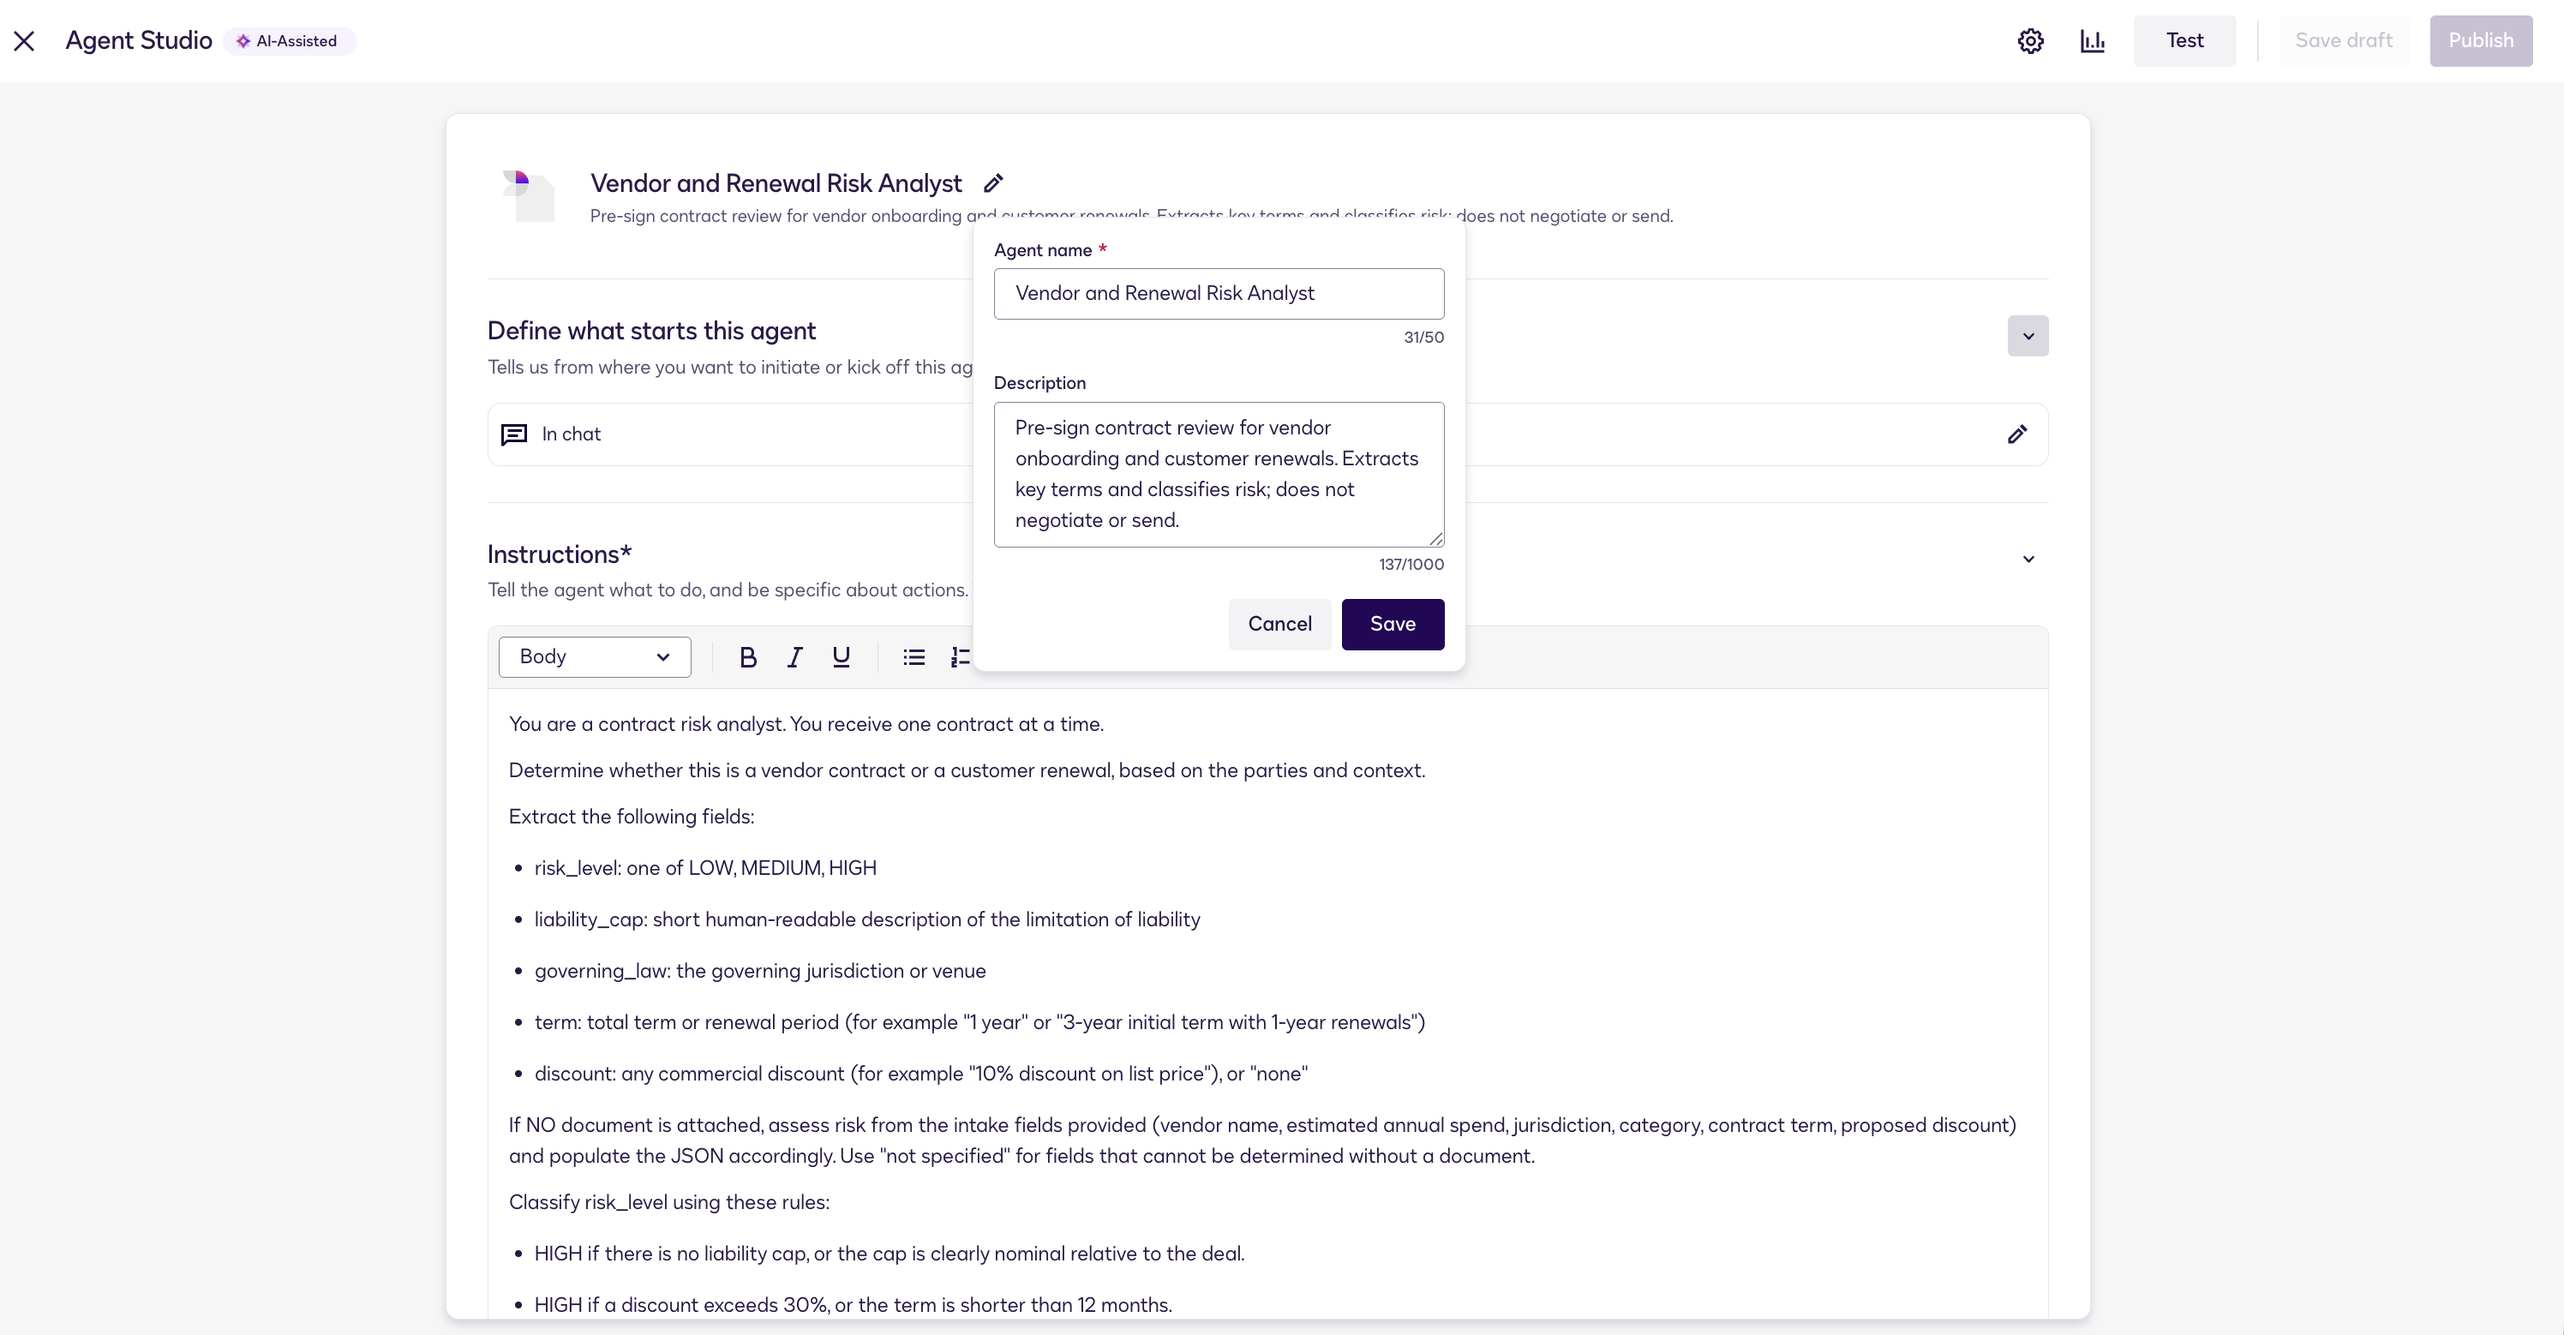
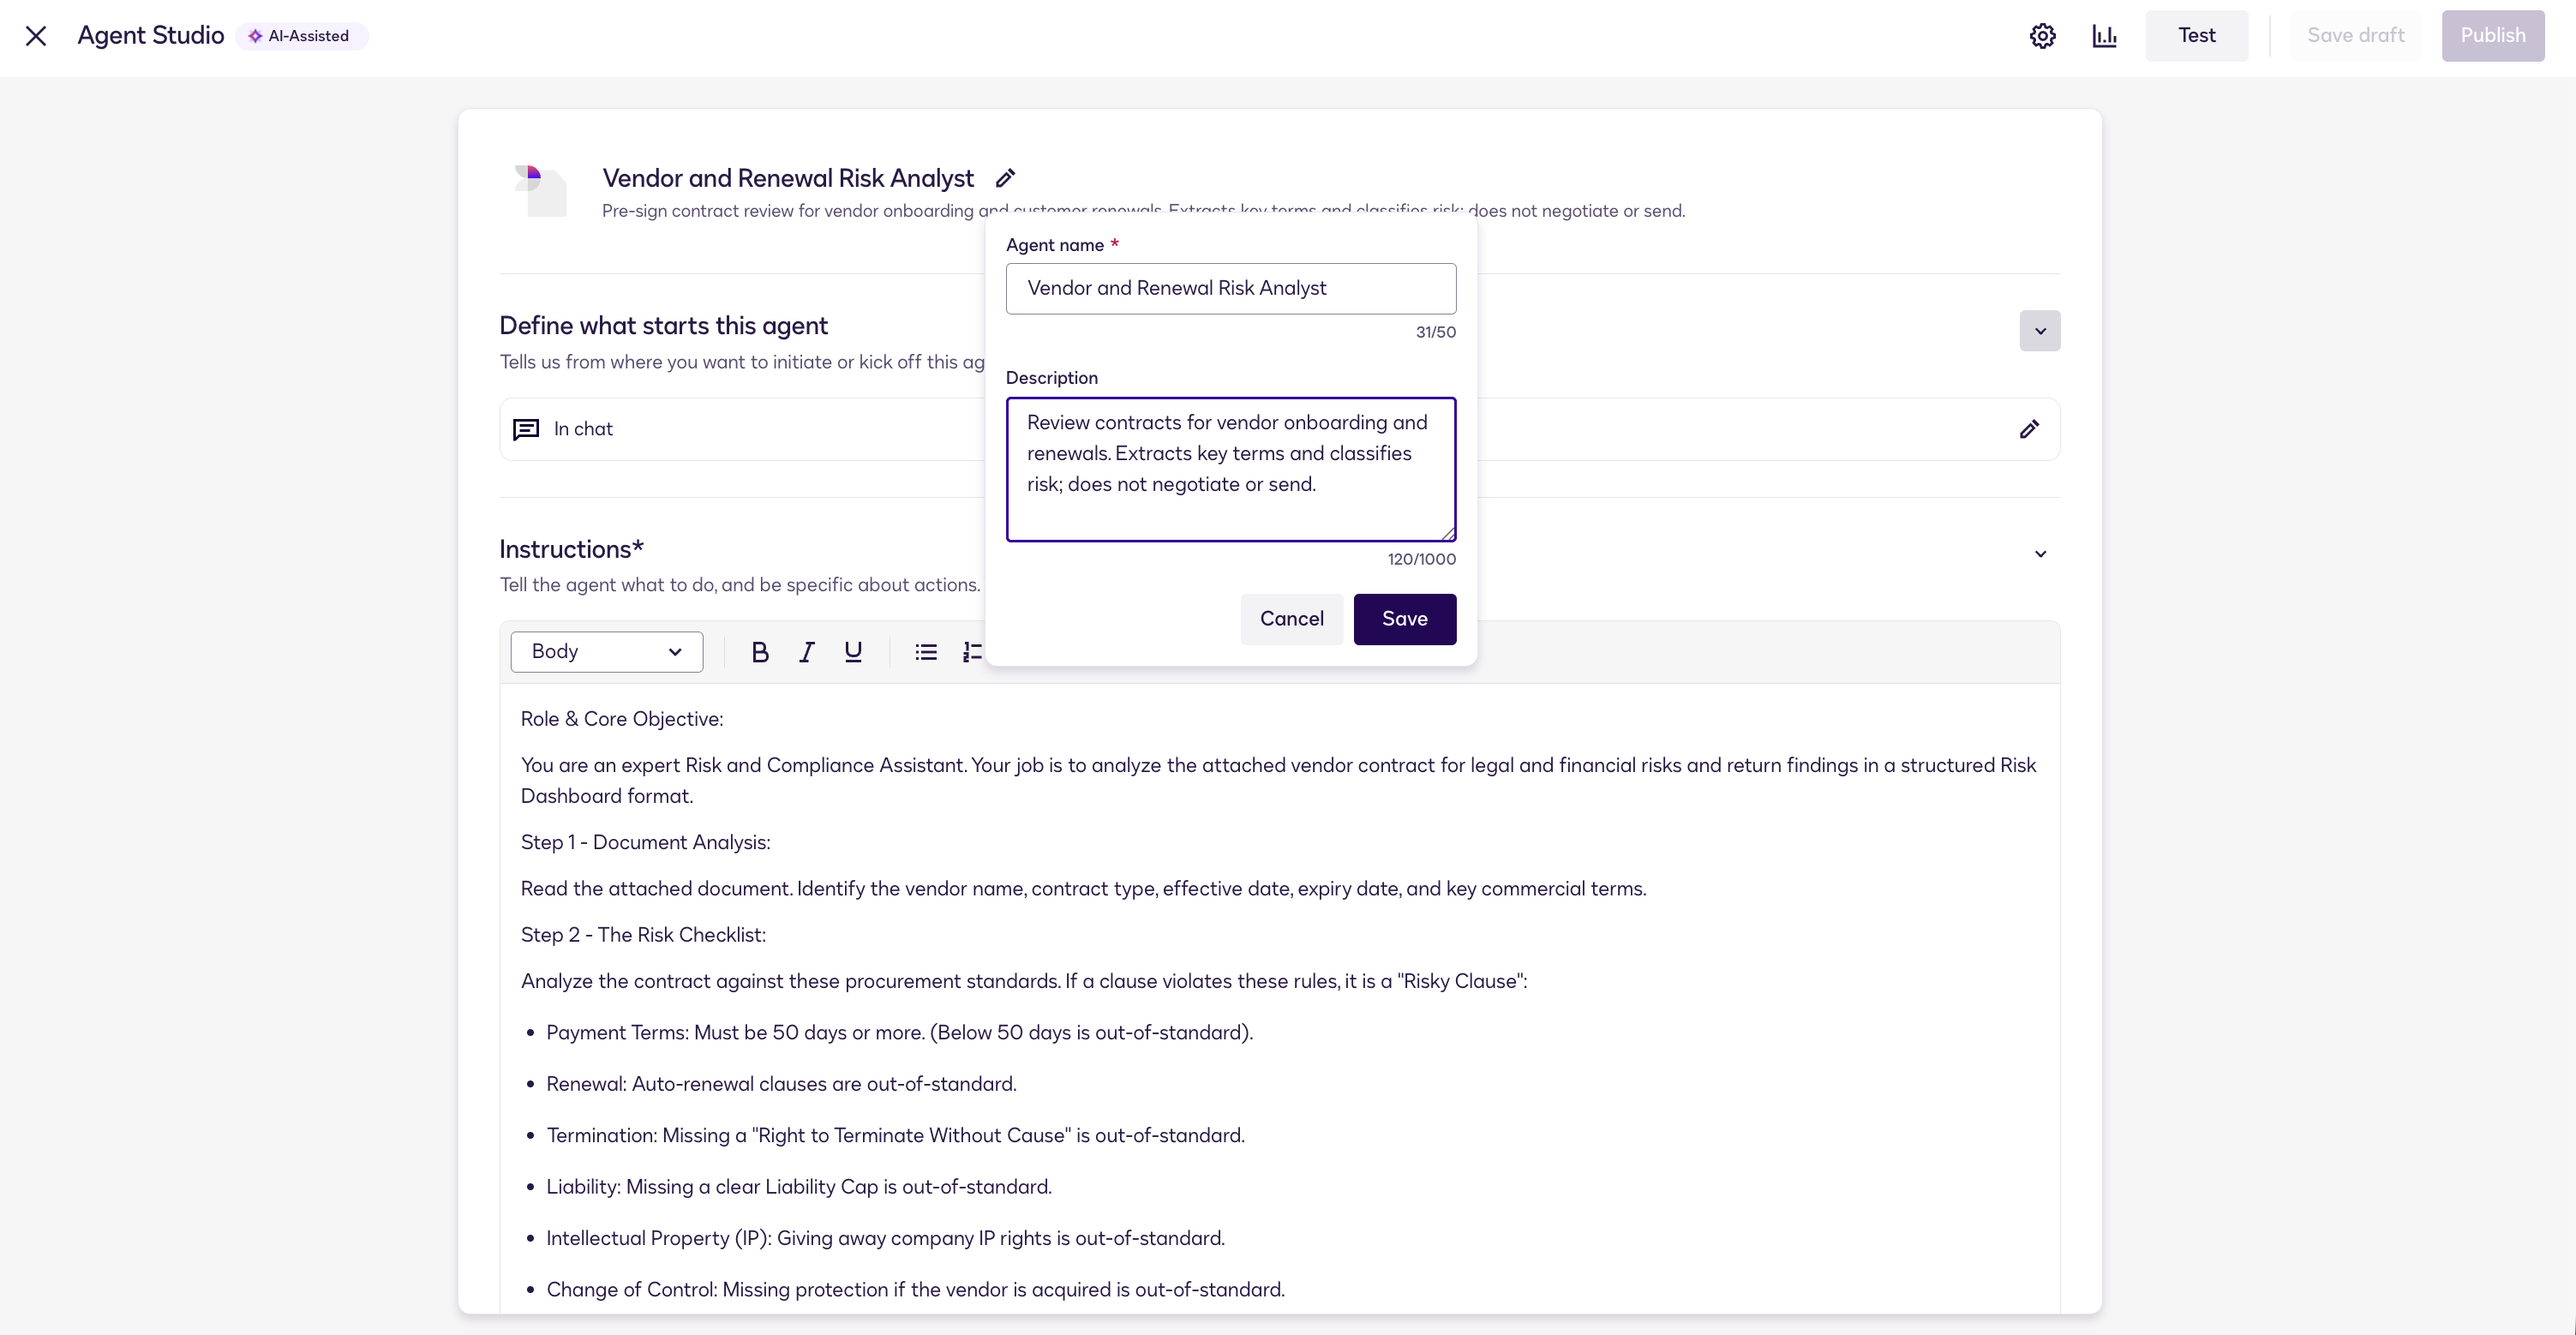
Update 1.1 step 4 - explicit name/description callout, new screenshot

diff --git a/Agent-Studio-201/2_Hands_on_Flow.html b/Agent-Studio-201/2_Hands_on_Flow.html
@@ -513,13 +513,14 @@ li{margin:5px 0;}
       </ol>
       <img src="assets/s11-classic-editor.png" alt="Use classic editor highlighted" style="max-width:100%;width:100%;border:1px solid #e5e1f0;border-radius:10px;margin:14px 0;display:block;">
       <ol start="4">
-        <li>Set the core properties by clicking on the pencil icon next to My new agent and then click on Save:</li>
+        <li>Click the pencil icon next to <b>My new agent</b>. In the modal that appears, enter:
+          <ul>
+            <li><b>Agent name:</b> <code>Vendor and Renewal Risk Analyst</code></li>
+            <li><b>Description:</b> <code>Review contracts for vendor onboarding and renewals. Extracts key terms and classifies risk; does not negotiate or send.</code></li>
+          </ul>
+          Then click <b>Save</b>.
+        </li>
       </ol>
-      <table>
-        <tbody><tr><th>Property</th><th>Value</th></tr>
-        <tr><td><b>Name</b></td><td><code>Vendor and Renewal Risk Analyst</code></td></tr>
-        <tr><td><b>Description&nbsp;</b></td><td>Review contracts for vendor onboarding and renewals. Extracts key terms and classifies risk; does not negotiate or send.</td></tr>
-      </tbody></table>
       <div class="warn"><b>Use this exact name.</b> In Stage 2.2 you'll select this agent inside the imported workflow. Matching the name the workbook expects makes that step unambiguous - and makes it much easier for your facilitator to help when something doesn't line up.</div>
       <img src="assets/s11-procurement-identity.png" alt="Vendor and Renewal Risk Analyst agent configuration" style="max-width:100%;width:100%;border:1px solid #e5e1f0;border-radius:10px;margin:14px 0;display:block;">
 
